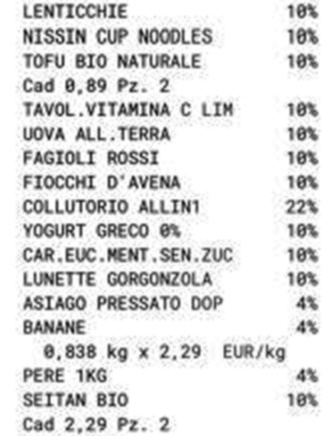
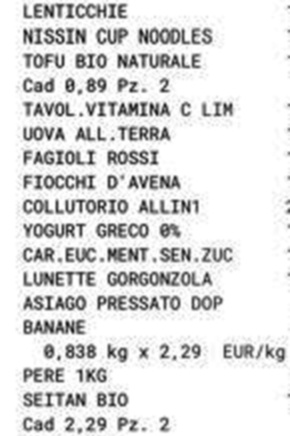
dev: fine-tuning of parameters

diff --git a/recep_reader.py b/recep_reader.py
@@ -26,9 +26,9 @@ USA_GPU = configura_dispositivo_gpu()
 # CONFIGURAZIONE TAGLI E PARAMETRI (Aggiornati empiricamente)
 # =====================================================================
 TAGLIO_ALTO_RATIO = 0.15  # Taglia l'intestazione superiore
-TAGLIO_DESTRA_RATIO = 0.68  # Taglia i prezzi a destra
+TAGLIO_DESTRA_RATIO = 0.615  # Taglia i prezzi a destra
 FATTORE_INGRANDIMENTO = 2.0
-TOLLERANZA_Y_RIGA = 18
+TOLLERANZA_Y_RIGA = 4.5
 
 FILE_DEBUG_FINALE = "debug_solo_spesa.jpg"
 
